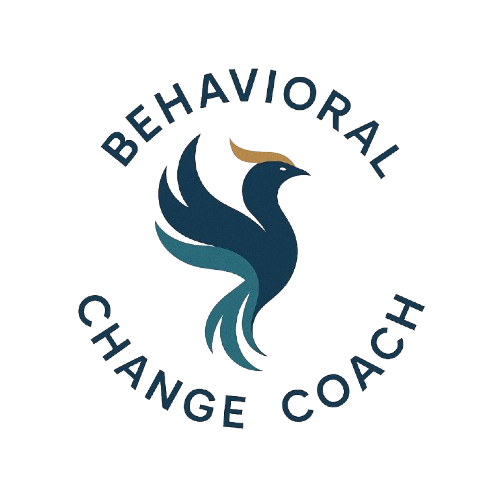
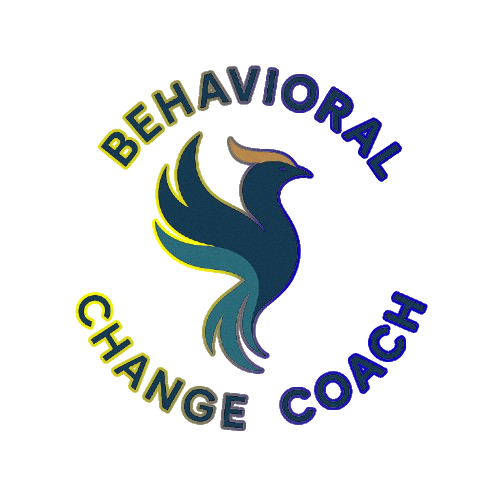
side bar work
made all the button on the side hoover animation.
also changed the TT icon to all three logo.

still not happy with it. cant get allthree.png files to look like the others.

diff --git a/traders.html b/traders.html
@@ -142,6 +142,29 @@
                 80%  { transform: translateY(0);}
                 100% { transform: translateY(-1px);}
             }
+
+            a {
+                color: #989fa5; /* or whatever your default link color is */
+                text-decoration: none;
+                transition: color 0.3s cubic-bezier(.4,0,.2,1), background 0.3s cubic-bezier(.4,0,.2,1);
+            }
+            a:hover {
+                color: #326978; /* Your main brand teal /
+                background: #f3ede340; / Optional: adds a soft highlight on hover */
+                border-radius: 4px;
+                padding: 2px 6px;
+            }
+            .home-tab-link:hover img,
+            .home-tab-link:focus img {
+                /* Copy the same transform, box-shadow, and animation from .home-services-card a:hover img */
+                transform: scale(1.09) translateY(-6px);
+                box-shadow:
+                    0 0 0 10px rgba(50, 105, 120, 0.13),
+                    0 0 0 22px rgba(152, 159, 165, 0.09),
+                    0 8px 32px rgba(21, 55, 78, 0.15);
+                animation: bounce 0.4s;
+            }
+
         </style>
         <script type="text/javascript">
             WebFont.load({
@@ -202,7 +225,9 @@
                             <a href="/resources.html" class="home-tab-link w-inline-block">
                                 <img src="images/notebook.png" loading="lazy" alt="icon"/>
                             </a>
-                            <a href="/index.html" aria-current="page" class="logo-nav w--current">TT</a>
+                            <a href="/index.html" aria-current="page" class="logo-nav w--current">
+                                <img src="/images/allthree.png" loading="lazy" alt="icon"/>
+                            </a>
                             <a href="#" class="download-button w-inline-block">
                                 <!-- <img src="https://cdn.prod.website-files.com/6292458ea6c91805d3cb2506/62972bd0ecfe8300b1f7c114_Icon-download-1.svg" loading="lazy" alt="icon"/> -->
                             </a>

diff --git a/parents.html b/parents.html
@@ -121,6 +121,29 @@
                 80%  { transform: translateY(0);}
                 100% { transform: translateY(-1px);}
             }
+
+            a {
+                color: #989fa5; /* or whatever your default link color is */
+                text-decoration: none;
+                transition: color 0.3s cubic-bezier(.4,0,.2,1), background 0.3s cubic-bezier(.4,0,.2,1);
+            }
+            a:hover {
+                color: #326978; /* Your main brand teal /
+                background: #f3ede340; / Optional: adds a soft highlight on hover */
+                border-radius: 4px;
+                padding: 2px 6px;
+            }
+            .home-tab-link:hover img,
+            .home-tab-link:focus img {
+                /* Copy the same transform, box-shadow, and animation from .home-services-card a:hover img */
+                transform: scale(1.09) translateY(-6px);
+                box-shadow:
+                    0 0 0 10px rgba(50, 105, 120, 0.13),
+                    0 0 0 22px rgba(152, 159, 165, 0.09),
+                    0 8px 32px rgba(21, 55, 78, 0.15);
+                animation: bounce 0.4s;
+            }
+
        </style>
         <script type="text/javascript">
             WebFont.load({
@@ -181,7 +204,9 @@
                             <a href="/resources.html" class="home-tab-link w-inline-block">
                                 <img src="images/notebook.png" loading="lazy" alt="icon"/>
                             </a>
-                            <a href="/index.html" aria-current="page" class="logo-nav w--current">TT</a>
+                            <a href="/index.html" aria-current="page" class="logo-nav w--current">
+                                <img src="/images/allthree.png" loading="lazy" alt="icon"/>
+                            </a>
                             <a href="#" class="download-button w-inline-block">
                                 <!-- <img src="https://cdn.prod.website-files.com/6292458ea6c91805d3cb2506/62972bd0ecfe8300b1f7c114_Icon-download-1.svg" loading="lazy" alt="icon"/> -->
                             </a>

diff --git a/fitness.html b/fitness.html
@@ -121,6 +121,27 @@
                 80%  { transform: translateY(0);}
                 100% { transform: translateY(-1px);}
             }
+            a {
+                color: #989fa5; /* or whatever your default link color is */
+                text-decoration: none;
+                transition: color 0.3s cubic-bezier(.4,0,.2,1), background 0.3s cubic-bezier(.4,0,.2,1);
+            }
+            a:hover {
+                color: #326978; /* Your main brand teal /
+                background: #f3ede340; / Optional: adds a soft highlight on hover */
+                border-radius: 4px;
+                padding: 2px 6px;
+            }
+            .home-tab-link:hover img,
+            .home-tab-link:focus img {
+                /* Copy the same transform, box-shadow, and animation from .home-services-card a:hover img */
+                transform: scale(1.09) translateY(-6px);
+                box-shadow:
+                    0 0 0 10px rgba(50, 105, 120, 0.13),
+                    0 0 0 22px rgba(152, 159, 165, 0.09),
+                    0 8px 32px rgba(21, 55, 78, 0.15);
+                animation: bounce 0.4s;
+            }
 
        </style>
        <script type="text/javascript">
@@ -182,7 +203,9 @@
                             <a href="/resources.html" class="home-tab-link w-inline-block">
                                 <img src="images/notebook.png" loading="lazy" alt="icon"/>
                             </a>
-                            <a href="/index.html" aria-current="page" class="logo-nav w--current">TT</a>
+                            <a href="/index.html" aria-current="page" class="logo-nav w--current">
+                                <img src="/images/allthree.png" loading="lazy" alt="icon"/>
+                            </a>
                             <a href="#" class="download-button w-inline-block">
                                 <!-- <img src="https://cdn.prod.website-files.com/6292458ea6c91805d3cb2506/62972bd0ecfe8300b1f7c114_Icon-download-1.svg" loading="lazy" alt="icon"/> -->
                             </a>

diff --git a/index.html b/index.html
@@ -179,7 +179,27 @@
             .testimonial-item:hover .info {
                 display: block;
             }
-
+            a {
+                color: #989fa5; /* or whatever your default link color is */
+                text-decoration: none;
+                transition: color 0.3s cubic-bezier(.4,0,.2,1), background 0.3s cubic-bezier(.4,0,.2,1);
+            }
+            a:hover {
+                color: #326978; /* Your main brand teal /
+                background: #f3ede340; / Optional: adds a soft highlight on hover */
+                border-radius: 4px;
+                padding: 2px 6px;
+            }
+            .home-tab-link:hover img,
+            .home-tab-link:focus img {
+                /* Copy the same transform, box-shadow, and animation from .home-services-card a:hover img */
+                transform: scale(1.09) translateY(-6px);
+                box-shadow:
+                    0 0 0 10px rgba(50, 105, 120, 0.13),
+                    0 0 0 22px rgba(152, 159, 165, 0.09),
+                    0 8px 32px rgba(21, 55, 78, 0.15);
+                animation: bounce 0.4s;
+            }
 
         </style>
         <script type="text/javascript">
@@ -241,7 +261,9 @@
                             <a href="/resources.html" class="home-tab-link w-inline-block">
                                 <img src="images/notebook.png" loading="lazy" alt="icon"/>
                             </a>
-                            <a href="/index.html" aria-current="page" class="logo-nav w--current">TT</a>
+                            <a href="/index.html" aria-current="page" class="logo-nav w--current">
+                                <img src="/images/allthree.png" loading="lazy" alt="icon"/>
+                            </a>
                             <a href="#" class="download-button w-inline-block">
                                 <!-- <img src="https://cdn.prod.website-files.com/6292458ea6c91805d3cb2506/62972bd0ecfe8300b1f7c114_Icon-download-1.svg" loading="lazy" alt="icon"/> -->
                             </a>

diff --git a/resources.html b/resources.html
@@ -30,6 +30,7 @@
             .home-progress-bar-title, .home-main-info {
                 color: #989fa5;
             }
+
             a {
                 color: #989fa5; /* or whatever your default link color is */
                 text-decoration: none;
@@ -40,6 +41,16 @@
                 background: #f3ede340; / Optional: adds a soft highlight on hover */
                 border-radius: 4px;
                 padding: 2px 6px;
+            }
+            .home-tab-link:hover img,
+            .home-tab-link:focus img {
+                /* Copy the same transform, box-shadow, and animation from .home-services-card a:hover img */
+                transform: scale(1.09) translateY(-6px);
+                box-shadow:
+                    0 0 0 10px rgba(50, 105, 120, 0.13),
+                    0 0 0 22px rgba(152, 159, 165, 0.09),
+                    0 8px 32px rgba(21, 55, 78, 0.15);
+                animation: bounce 0.4s;
             }
 
         </style>
@@ -102,7 +113,9 @@
                             <a href="/resources.html" class="home-tab-link w-inline-block">
                                 <img src="images/notebook.png" loading="lazy" alt="icon"/>
                             </a>
-                            <a href="/index.html" aria-current="page" class="logo-nav w--current">TT</a>
+                            <a href="/index.html" aria-current="page" class="logo-nav w--current">
+                                <img src="/images/allthree.png" loading="lazy" alt="icon"/>
+                            </a>
                             <a href="#" class="download-button w-inline-block">
                                 <!-- <img src="https://cdn.prod.website-files.com/6292458ea6c91805d3cb2506/62972bd0ecfe8300b1f7c114_Icon-download-1.svg" loading="lazy" alt="icon"/> -->
                             </a>
